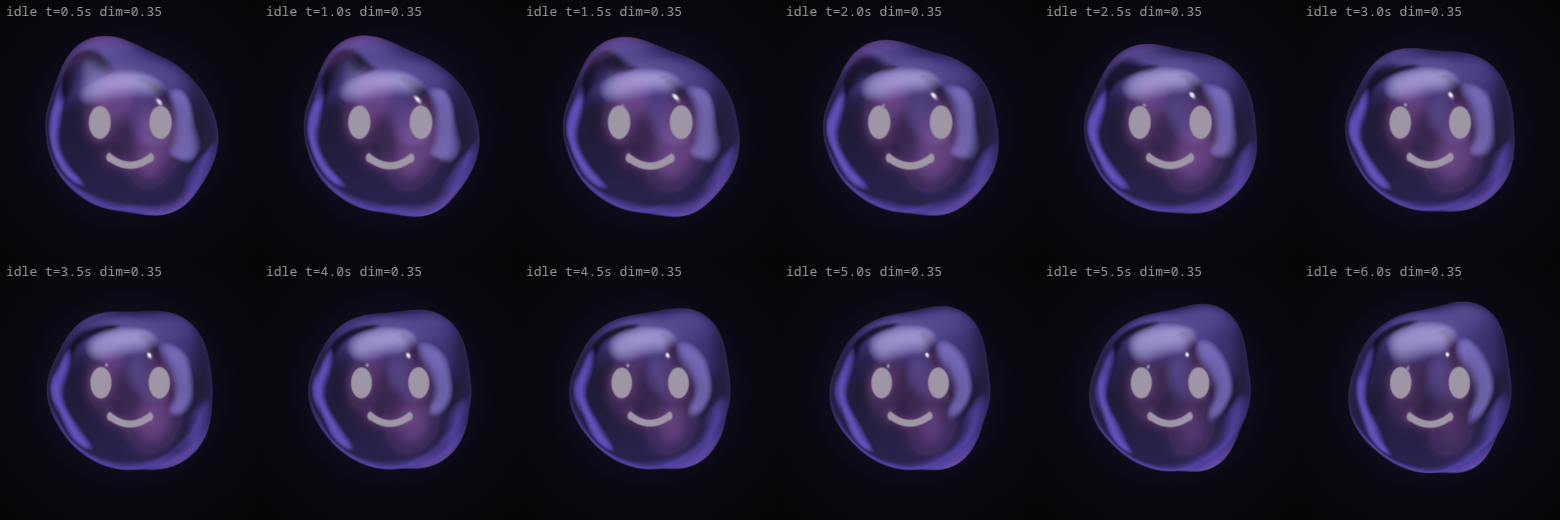
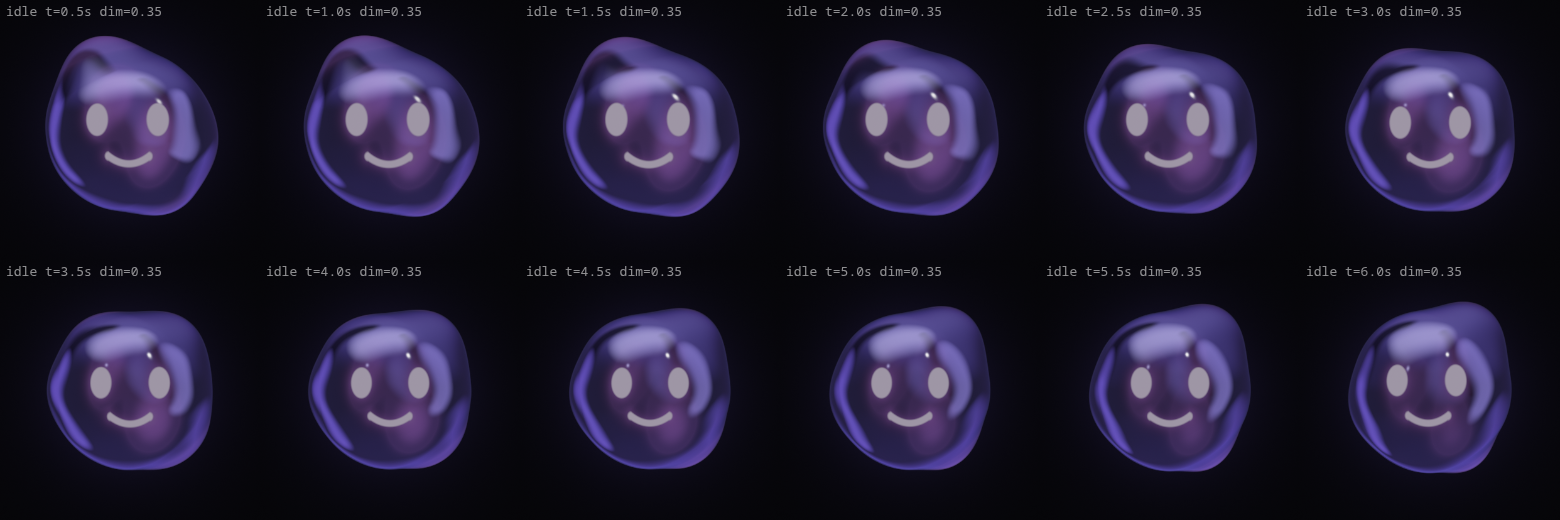
feat(web): give the blob character when it changes shape
The triangle, the square and the clock sat still once a morph ended.
The whole body now moves on top of the look:

- squash and stretch on a damped spring, kicked by morphs, landings,
  alert bounces, minute ticks and view changes
- a morph hops, stretches and twirls once (unwinds when reversed)
- alerts bounce with the pulse and rock; urgent also trembles
- lava lobes press on the faces of the alerts and the clock
- the clock floats, its digits ride a wave and the colon beats
- the eyes glance around in every state

The ray is moved into the body frame once per pixel, so map() costs
the same as before (SwiftShader idle 206 ms vs 207-210 ms).

diff --git a/web/src/render/blob.ts b/web/src/render/blob.ts
@@ -1,5 +1,6 @@
 import {
   GLSL3,
+  Matrix3,
   Mesh,
   OrthographicCamera,
   PlaneGeometry,
@@ -13,7 +14,7 @@ import {
 import fragmentShader from './blob.frag?raw';
 import vertexShader from './blob.vert?raw';
 import { CLOCK_LOOK, LOBE_COUNT, SHAPE, alertLook, alertShape, clockDigits, lobes, lookFor, type Look } from './tables';
-import { morphMix, stepMorph, type Morph } from './morph';
+import { morphMix, newTwirl, stepMorph, stepTwirl, type Morph } from './morph';
 import type { AlertItem } from '../protocol';
 import type { View } from '../state';
 
@@ -32,6 +33,16 @@ const FACE_KEYS = ['eyeW', 'eyeH', 'eyeY', 'gazeX', 'gazeY', 'happy', 'smile', '
 // Open time before blink n: 3 to 6 s from a fixed sequence, so frozen film
 // strips stay reproducible.
 const blinkGap = (n: number) => 3 + 3 * (Math.sin(n * 12.9898) * 0.5 + 0.5);
+// Fixed pseudo-random 0..1 for glance n (same reason).
+const rnd = (n: number, k: number) => (Math.sin(n * 91.345 + k * 47.853) * 43758.5453) % 1 * 0.5 + 0.5;
+
+// Body motion (character): a squash-and-stretch spring that every landing,
+// state change and minute tick kicks, a hop and a full twirl during a shape
+// morph, bounces with the alert pulse and a gentle float for the clock.
+const SQUASH_HZ = 2.6;
+const SQUASH_DAMP = 0.22; // damping ratio: a few visible jiggles
+const HOP = 0.22; // morph hop height (the blob radius is 0.78)
+const isAlertShape = (s: number) => s === SHAPE.triangle || s === SHAPE.square;
 
 export interface FrameInput {
   view: View;
@@ -67,6 +78,15 @@ export class BlobRenderer {
   private blinkT = 0; // time since the last blink ended
   private blinkN = 1;
   private tickT = 1; // progress of the melt from the old clock digits to the new ones
+  private t = 0; // own animation time, s
+  private sq = 0; // squash spring: + stretches tall, - squashes wide
+  private sqV = 0;
+  private twirl = newTwirl();
+  private alertW = 0; // 0..1 weight of the alert bounce
+  private urgentW = 0; // 0..1 weight of the urgent tremble
+  private clockW = 0; // 0..1 weight of the clock float
+  private glance = { n: 1, t: 0, x: 0, y: 0 }; // eye saccades: n-th glance, time in it, current offset
+  private lastView: View | null = null;
   private raf = 0;
   quality = MAX_QUALITY;
   autoQuality = true;
@@ -111,6 +131,11 @@ export class BlobRenderer {
         uDigits: { value: new Vector4() },
         uDigitsPrev: { value: new Vector4() },
         uTick: { value: 1 },
+        uBodyPos: { value: new Vector3() },
+        uBodyRot: { value: new Matrix3() },
+        uBodyInv: { value: new Vector3(1, 1, 1) },
+        uDigitY: { value: new Vector4() },
+        uColon: { value: 0 },
       },
     });
     this.scene.add(new Mesh(new PlaneGeometry(2, 2), this.material));
@@ -165,9 +190,9 @@ export class BlobRenderer {
 
   // Debug clock for the film strip: stop the loop and restart the motion from
   // zero in `view`'s look, so frames are reproducible.
-  freeze(view: View, clock?: Date | null): void {
+  freeze(view: View, clock?: Date | null, alert?: FrameInput['alert']): void {
     this.stop();
-    const { look, shape } = targetOf({ view, level: 0, clock });
+    const { look, shape } = targetOf({ view, level: 0, clock, alert });
     Object.assign(this.cur, structuredClone(look));
     Object.assign(this.morph, { a: shape, b: shape, t: 0 });
     const u = this.material.uniforms;
@@ -177,6 +202,11 @@ export class BlobRenderer {
     this.flashT = 0;
     this.blinkT = 0;
     this.blinkN = 1;
+    Object.assign(this, { t: 0, sq: 0, sqV: 0, twirl: newTwirl(), lastView: view });
+    this.alertW = isAlertShape(shape) ? 1 : 0;
+    this.urgentW = alert?.urgency === 'urgent' && view === 'alert' ? 1 : 0;
+    this.clockW = shape === SHAPE.clock ? 1 : 0;
+    this.glance = { n: 1, t: 0, x: 0, y: 0 };
   }
 
   // Advances the frozen clock by `dtS` with the given input; draws when asked.
@@ -215,6 +245,8 @@ export class BlobRenderer {
   private advance(dt: number, fi: FrameInput): void {
     const { level } = fi;
     const { look: target, shape } = targetOf(fi);
+    const wasMorphing = this.morph.a !== this.morph.b;
+    const phase0 = this.material.uniforms.uPhase.value as number;
     stepMorph(this.morph, shape, dt);
     const k = 1 - Math.exp(-dt / EASE_S);
     const c = this.cur;
@@ -250,6 +282,7 @@ export class BlobRenderer {
         else prev.fromArray(d);
         shown.fromArray(d);
         this.tickT = 0;
+        if (this.morph.a === SHAPE.clock) this.kick(-2.4); // a hiccup on each new minute
       }
     }
     this.tickT = Math.min(1, this.tickT + dt / EASE_S);
@@ -271,5 +304,80 @@ export class BlobRenderer {
     (u.uGaze.value as Vector2).set(c.gazeX, c.gazeY);
     (u.uMouth.value as Vector3).set(c.smile, c.mouth + c.talk * this.level, c.face);
     lobes(u.uFlow.value as number, c.amp, u.uLobes.value as Float32Array);
+    this.animateBody(dt, fi, shape, wasMorphing, phase0);
+  }
+
+  private kick(v: number): void {
+    this.sqV += v;
+  }
+
+  // Character on top of the look: squash and stretch, the morph hop and
+  // twirl, the alert bounce and tremble, the clock float and eye glances.
+  private animateBody(dt: number, fi: FrameInput, shape: number, wasMorphing: boolean, phase0: number): void {
+    const u = this.material.uniforms;
+    const m = this.morph;
+    const t = (this.t += dt);
+    const k = 1 - Math.exp(-dt / 0.3);
+    this.alertW += ((isAlertShape(shape) ? 1 : 0) - this.alertW) * k;
+    this.urgentW += ((fi.view === 'alert' && fi.alert?.urgency === 'urgent' ? 1 : 0) - this.urgentW) * k;
+    this.clockW += ((shape === SHAPE.clock ? 1 : 0) - this.clockW) * k;
+
+    // Kicks: a crouch before a morph jumps, a landing after it, a small
+    // jiggle on any other change of view.
+    const morphing = m.a !== m.b;
+    if (morphing && !wasMorphing) this.kick(-2.2);
+    if (!morphing && wasMorphing) this.kick(-4);
+    if (this.lastView !== null && fi.view !== this.lastView && !morphing) this.kick(-1.6);
+    this.lastView = fi.view;
+    // Alert shapes jump with the pulse (sin > 0 is the air time) and land on its zero crossing.
+    const phase = u.uPhase.value as number;
+    const landed = Math.sin(phase0) > 0 && Math.sin(phase) <= 0;
+    if (landed && this.alertW > 0.5) this.kick(-2.6 - 1.2 * this.urgentW);
+
+    // Spring, in small substeps so a long frame cannot blow it up.
+    const w = 2 * Math.PI * SQUASH_HZ;
+    const n = Math.max(1, Math.ceil(dt * 240));
+    for (let i = 0; i < n; i++) {
+      const h = dt / n;
+      this.sqV += (-w * w * this.sq - 2 * SQUASH_DAMP * w * this.sqV) * h;
+      this.sq += this.sqV * h;
+    }
+
+    // Morph: hop and stretch in the air, and one full twirl.
+    stepTwirl(this.twirl, m);
+    const air = morphing ? Math.sin(Math.PI * m.t) : 0;
+
+    const bounce = Math.max(0, Math.sin(phase));
+    const hop = HOP * air + this.alertW * (0.1 - 0.03 * this.urgentW) * bounce + this.clockW * 0.035 * Math.sin(t * 0.8);
+    const shake = this.urgentW * (0.011 * Math.sin(t * 47) + 0.007 * Math.sin(t * 31 + 1.3));
+    (u.uBodyPos.value as Vector3).set(shake, hop, 0);
+    const roll = this.alertW * 0.09 * Math.sin(t * 1.3) * (1 - 0.5 * this.urgentW) + this.urgentW * 0.03 * Math.sin(t * 39) + this.clockW * 0.035 * Math.sin(t * 0.53);
+    // World to body: yaw (twirl, sway) then roll, as rows.
+    const yaw = this.twirl.angle + this.clockW * 0.14 * Math.sin(t * 0.37);
+    const [cy, sy, cr, sr] = [Math.cos(yaw), Math.sin(yaw), Math.cos(roll), Math.sin(roll)];
+    (u.uBodyRot.value as Matrix3).set(cr * cy, sr, cr * sy, -sr * cy, cr, -sr * sy, -sy, 0, cy);
+    // Squash and stretch at constant volume, sent inverted (the shader divides by it).
+    const st = 1 + Math.max(-0.3, Math.min(0.3, this.sq + 0.16 * air + this.alertW * 0.05 * bounce));
+    (u.uBodyInv.value as Vector3).set(Math.sqrt(st), 1 / st, Math.sqrt(st));
+
+    // Clock: the digits ride a slow wave, the colon beats once a second.
+    const dy = u.uDigitY.value as Vector4;
+    for (let i = 0; i < 4; i++) dy.setComponent(i, 0.03 * Math.sin(t * 1.7 - i * 0.8));
+    u.uColon.value = Math.exp(-(t % 1) * 5);
+
+    // Glances: the eyes dart somewhere every 1.2 to 4 s, often back to centre.
+    const g = this.glance;
+    g.t += dt;
+    if (g.t > 1.2 + 2.8 * rnd(g.n, 0)) {
+      g.t = 0;
+      g.n++;
+    }
+    const centre = rnd(g.n, 1) < 0.35;
+    const gk = 1 - Math.exp(-dt / 0.07);
+    g.x += ((centre ? 0 : (rnd(g.n, 2) - 0.5) * 0.16) - g.x) * gk;
+    g.y += ((centre ? 0 : (rnd(g.n, 3) - 0.5) * 0.08) - g.y) * gk;
+    const gaze = u.uGaze.value as Vector2;
+    gaze.x += g.x;
+    gaze.y += g.y;
   }
 }

diff --git a/web/e2e/motion.spec.ts b/web/e2e/motion.spec.ts
@@ -25,19 +25,32 @@ export function speechLevel(t: number): number {
   return Math.max(0, Math.min(1, 0.85 * edge * syl * stress));
 }
 
-async function sheet(page: Page, view: string, speech: boolean, name = view, dim = 1): Promise<void> {
+// Extra input for a sheet: the clock time, the alert, a view to start from
+// (a morph strip starts in `from` and switches to `view` at t=0) and the
+// number of 1/30 s steps per frame.
+interface SheetOpts {
+  clock?: string;
+  alert?: { source: string; urgency: 'info' | 'urgent' };
+  from?: string;
+  every?: number;
+  wide?: boolean; // 16:9 tiles, for the clock
+}
+
+async function sheet(page: Page, view: string, speech: boolean, name = view, dim = 1, o: SheetOpts = {}): Promise<void> {
   const png = await page.evaluate(
-    async ({ view, speech, frames, every, step, levelSrc, dim }) => {
+    async ({ view, speech, frames, every, step, levelSrc, dim, o }) => {
       const level = new Function(`return (${levelSrc})`)() as (t: number) => number;
       const d = (window as unknown as { blobDebug: Record<string, (...a: unknown[]) => void> }).blobDebug;
       const canvas = document.getElementById('blob') as HTMLCanvasElement;
       d.setDim(dim);
-      d.freeze(view);
+      d.freeze(o.from ?? view, o.clock, o.alert);
       const side = Math.round(canvas.height * 0.92);
+      const aspect = o.wide ? 16 / 9 : 1;
       const tile = 260;
-      const cols = 6;
+      const tileW = Math.round(tile * aspect);
+      const cols = o.wide ? 4 : 6;
       const out = document.createElement('canvas');
-      out.width = cols * tile;
+      out.width = cols * tileW;
       out.height = Math.ceil(frames / cols) * tile;
       const g = out.getContext('2d')!;
       g.fillStyle = '#000';
@@ -47,18 +60,20 @@ async function sheet(page: Page, view: string, speech: boolean, name = view, dim
       for (let f = 0; f < frames; f++) {
         for (let i = 0; i < every; i++) {
           t += step;
-          d.step(step, view, speech ? level(t) : 0, i === every - 1);
+          d.step(step, view, speech ? level(t) : 0, i === every - 1, o.clock, o.alert);
         }
         // Read the canvas in the same task as the draw (no preserveDrawingBuffer needed).
-        const x = (f % cols) * tile;
+        const x = (f % cols) * tileW;
         const y = Math.floor(f / cols) * tile;
-        g.drawImage(canvas, (canvas.width - side) / 2, (canvas.height - side) / 2, side, side, x, y, tile, tile);
+        const sw = Math.min(canvas.width, side * aspect);
+        const sh = sw / aspect;
+        g.drawImage(canvas, (canvas.width - sw) / 2, (canvas.height - sh) / 2, sw, sh, x, y, tileW, tile);
         g.fillStyle = 'rgba(255,255,255,0.55)';
         g.fillText(`${view} t=${t.toFixed(1)}s${speech ? ` lvl=${level(t).toFixed(2)}` : ''}${dim < 1 ? ` dim=${dim}` : ''}`, x + 6, y + 16);
       }
       return out.toDataURL('image/png');
     },
-    { view, speech, frames: FRAMES, every: EVERY, step: STEP_S, levelSrc: speechLevel.toString(), dim },
+    { view, speech, frames: FRAMES, every: o.every ?? EVERY, step: STEP_S, levelSrc: speechLevel.toString(), dim, o },
   );
   writeFileSync(`${OUT}${name}.png`, Buffer.from(png.split(',')[1], 'base64'));
 }
@@ -101,6 +116,13 @@ test('motion contact sheets', async ({ page }) => {
   await sheet(page, 'thinking', false);
   await sheet(page, 'error', false);
   await sheet(page, 'idle', false, 'idle-night-dim0.35', 0.35); // night dimming hook
+  const timer = { source: 'timer', urgency: 'info' } as const;
+  await sheet(page, 'idle', false, 'clock', 1, { clock: '2026-01-01T09:41', wide: true });
+  await sheet(page, 'alert', false, 'alert-timer-info', 1, { alert: timer });
+  await sheet(page, 'alert', false, 'alert-square-urgent', 1, { alert: { source: 'calendar', urgency: 'urgent' } });
+  // The morph from the blob to the timer triangle: hop, twirl, landing jiggle, 0.1 s apart.
+  await sheet(page, 'alert', false, 'morph-to-triangle', 1, { alert: timer, from: 'idle', every: 3 });
+  await sheet(page, 'idle', false, 'morph-to-clock', 1, { clock: '2026-01-01T09:41', from: 'listening', every: 3, wide: true });
   expect(await page.evaluate(() => (window as unknown as { blobDebug: { quality: number } }).blobDebug.quality)).toBe(2);
 });
 

diff --git a/web/src/render/morph.test.ts b/web/src/render/morph.test.ts
@@ -1,5 +1,5 @@
 import { describe, expect, it } from 'vitest';
-import { MORPH_S, morphMix, stepMorph, type Morph } from './morph';
+import { MORPH_S, morphMix, newTwirl, stepMorph, stepTwirl, type Morph } from './morph';
 
 const run = (m: Morph, target: number, seconds: number, dt = 1 / 60) => {
   for (let t = 0; t < seconds - 1e-9; t += dt) stepMorph(m, target, dt);
@@ -40,5 +40,44 @@ describe('shape morph', () => {
     expect(m.b).toBe(1);
     run(m, 2, MORPH_S * 1.5);
     expect(m.a).toBe(2);
+  });
+});
+
+describe('morph twirl', () => {
+  // Steps morph and twirl together; returns the largest angle change in one frame.
+  const spin = (m: Morph, tw: ReturnType<typeof newTwirl>, target: number, seconds: number, dt = 1 / 60) => {
+    let jump = 0;
+    for (let t = 0; t < seconds - 1e-9; t += dt) {
+      const before = tw.angle;
+      stepMorph(m, target, dt);
+      stepTwirl(tw, m);
+      const d = tw.angle - before;
+      jump = Math.max(jump, Math.abs(d - 2 * Math.PI * Math.round(d / (2 * Math.PI)))); // 2π is the same pose
+    }
+    return jump;
+  };
+  it('turns once and lands facing front, without jumps', () => {
+    const m = { a: 0, b: 0, t: 0 };
+    const tw = newTwirl();
+    expect(spin(m, tw, 1, MORPH_S / 2)).toBeLessThan(0.3);
+    expect(tw.angle).toBeCloseTo(Math.PI, 0);
+    expect(spin(m, tw, 1, MORPH_S)).toBeLessThan(0.3);
+    expect(tw.angle).toBe(0);
+  });
+  it('a reversed morph unwinds the twirl back to the front', () => {
+    const m = { a: 0, b: 0, t: 0 };
+    const tw = newTwirl();
+    spin(m, tw, 1, MORPH_S * 0.3);
+    const mid = tw.angle;
+    expect(mid).toBeGreaterThan(0.5);
+    let max = 0;
+    for (let i = 0; i < 30; i++) {
+      max = Math.max(max, spin(m, tw, 0, 1 / 30));
+      if (m.a === m.b) break;
+      expect(tw.angle).toBeLessThanOrEqual(mid + 1e-9); // going back, not on round
+    }
+    expect(max).toBeLessThan(0.3);
+    expect(m.a).toBe(0);
+    expect(tw.angle).toBe(0);
   });
 });

diff --git a/web/src/main.ts b/web/src/main.ts
@@ -515,8 +515,9 @@ window.blobDebug = {
     if (renderer) renderer.dim = Math.max(0, Math.min(1, v));
   },
   // `clock`: a local time such as '2026-01-01T09:41', to draw the idle clock.
-  step(dtS: number, v: View, level: number, draw: boolean, clock?: string) {
-    renderer?.step(dtS, { view: v, level, clock: clock ? new Date(clock) : null }, draw);
+  // `alert`: the top alert drawn when `v` is 'alert'.
+  step(dtS: number, v: View, level: number, draw: boolean, clock?: string, alert?: FrameInput['alert']) {
+    renderer?.step(dtS, { view: v, level, clock: clock ? new Date(clock) : null, alert }, draw);
   },
   // Pretends the page has been idle for `ms` (the clock appears after CLOCK_AFTER_MS).
   idleFor(ms: number) {
@@ -548,8 +549,8 @@ window.blobDebug = {
   },
   // Screenshot scripts only. No view: hold the current frame (a mid-morph
   // capture). With a view: stop and restart that view's motion at zero (film strip).
-  freeze(v?: View, clock?: string) {
-    if (v) renderer?.freeze(v, clock ? new Date(clock) : null);
+  freeze(v?: View, clock?: string, alert?: FrameInput['alert']) {
+    if (v) renderer?.freeze(v, clock ? new Date(clock) : null, alert);
     else renderer?.stop();
   },
 };

diff --git a/web/src/render/morph.ts b/web/src/render/morph.ts
@@ -29,3 +29,30 @@ export function stepMorph(m: Morph, target: number, dt: number): void {
 export function morphMix(m: Morph): number {
   return m.t * m.t * (3 - 2 * m.t);
 }
+
+// One full twirl about the vertical axis during a morph, landing facing front.
+// A morph reversed mid-way unwinds the twirl instead of jumping.
+export interface Twirl {
+  angle: number; // radians
+  e: number; // eased morph progress at the last step
+  dir: number; // +1 or -1
+  a: number; // the morph's shapes at the last step
+  b: number;
+}
+
+export const newTwirl = (): Twirl => ({ angle: 0, e: 0, dir: 1, a: 0, b: 0 });
+
+// Call after stepMorph each frame.
+export function stepTwirl(tw: Twirl, m: Morph): void {
+  if (m.a === m.b) {
+    Object.assign(tw, newTwirl(), { a: m.a, b: m.b });
+    return;
+  }
+  if (tw.a !== tw.b && m.a === tw.b && m.b === tw.a) {
+    tw.dir = -tw.dir;
+    tw.e = 1 - tw.e;
+  }
+  const e = morphMix(m);
+  tw.angle += tw.dir * 2 * Math.PI * (e - tw.e);
+  Object.assign(tw, { e, a: m.a, b: m.b });
+}

diff --git a/docs/notes/look.md b/docs/notes/look.md
@@ -91,6 +91,20 @@ After 5 minutes of unbroken idle (`CLOCK_AFTER_MS`), the blob rests as a digital
 
 Screenshots: `docs/screenshots/clock-1280x800.png` and `-1024x768.png` show the time of the run.
 
+## Character: body motion
+
+The shapes used to sit still once a morph ended. `animateBody()` in `blob.ts` now moves the whole body, on top of the look. The shader marches the ray in the body frame (`body()`, `uBodyPos`, `uBodyRot`, `uBodyInv`), moved once per pixel, so `map()` costs the same as before.
+
+| What | How |
+|---|---|
+| Squash and stretch | A damped spring (2.6 Hz, damping ratio 0.22) at constant volume. Kicked by the crouch before a morph, the landing after it, every alert landing, each new minute on the clock and any other change of view. |
+| Morph | The body hops (0.22), stretches in the air and makes one full twirl (`stepTwirl()` in `morph.ts`). A morph reversed mid-way unwinds the twirl. |
+| Alerts | The triangle and the square jump with the pulse (sin > 0 is the air time) and rock from side to side. `urgent` also trembles. Three lava lobes press on their faces from inside (`lobePush()`), so the faces bulge as the lobes pass. |
+| Clock | It floats, rocks and sways a little. The digits ride a slow wave (`uDigitY`), the colon beats once a second (`uColon`), and the same lava lobes press on the pill. |
+| Eyes | Every 1.2 to 4 s the eyes dart to a new point, often back to the centre, in every state. |
+
+Contact sheets: `docs/screenshots/motion/clock.png`, `alert-timer-info.png`, `alert-square-urgent.png`, `morph-to-triangle.png` and `morph-to-clock.png`. Frame cost in SwiftShader at idle is unchanged (206 ms against 207 to 210 ms before).
+
 ## After the merge with main (S3/S4)
 
 - **Alerts.** Alerts use the same shading, with a lava colour from `ALERT_LAVA`. Their flat faces get stronger flowing ripples in the reflection (`faceted`), so they do not mirror one flat colour.
